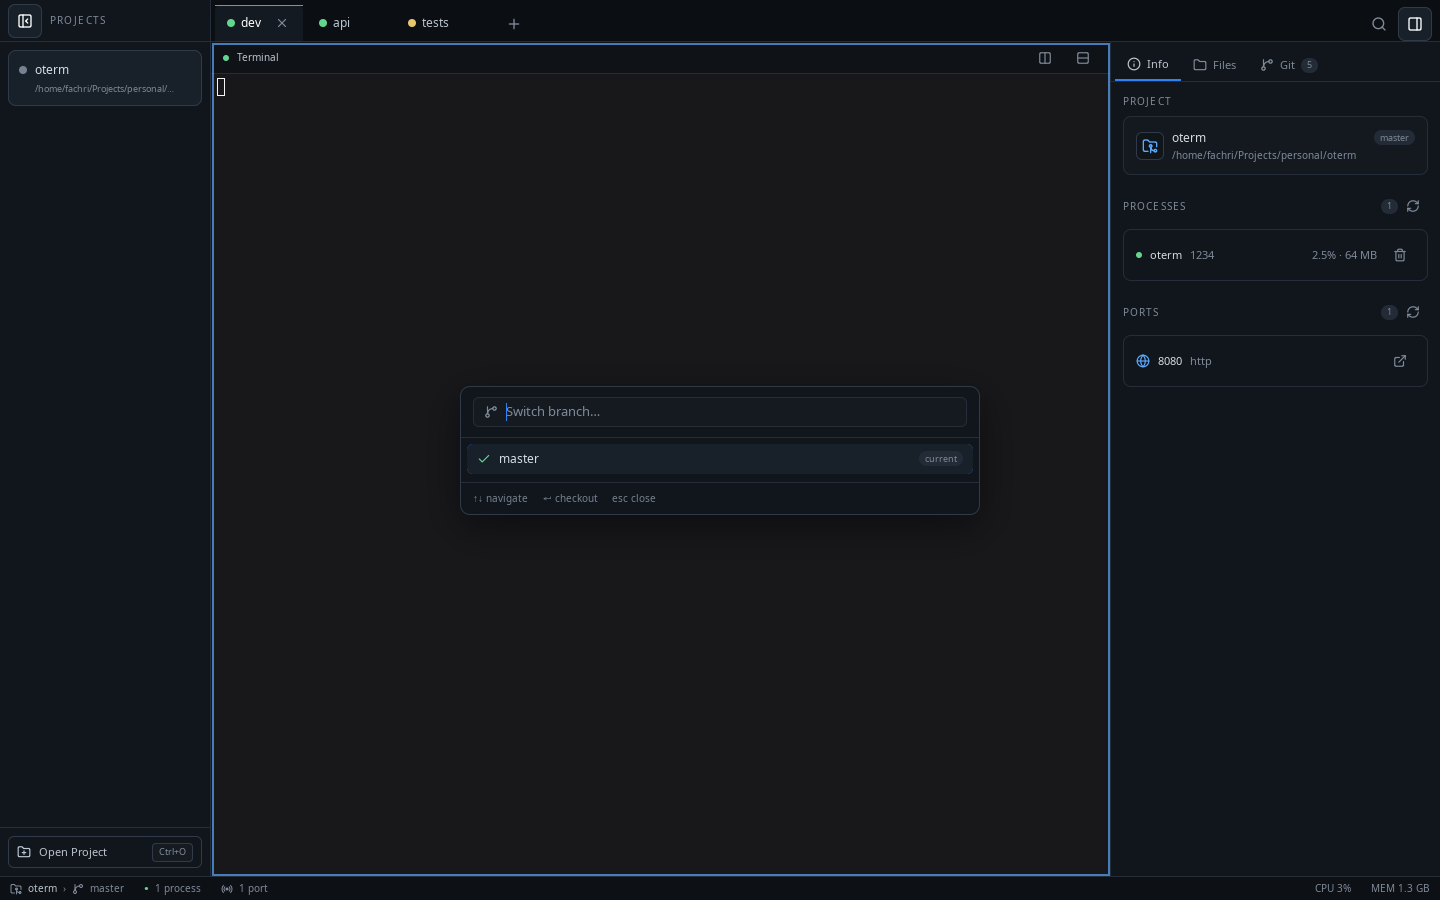
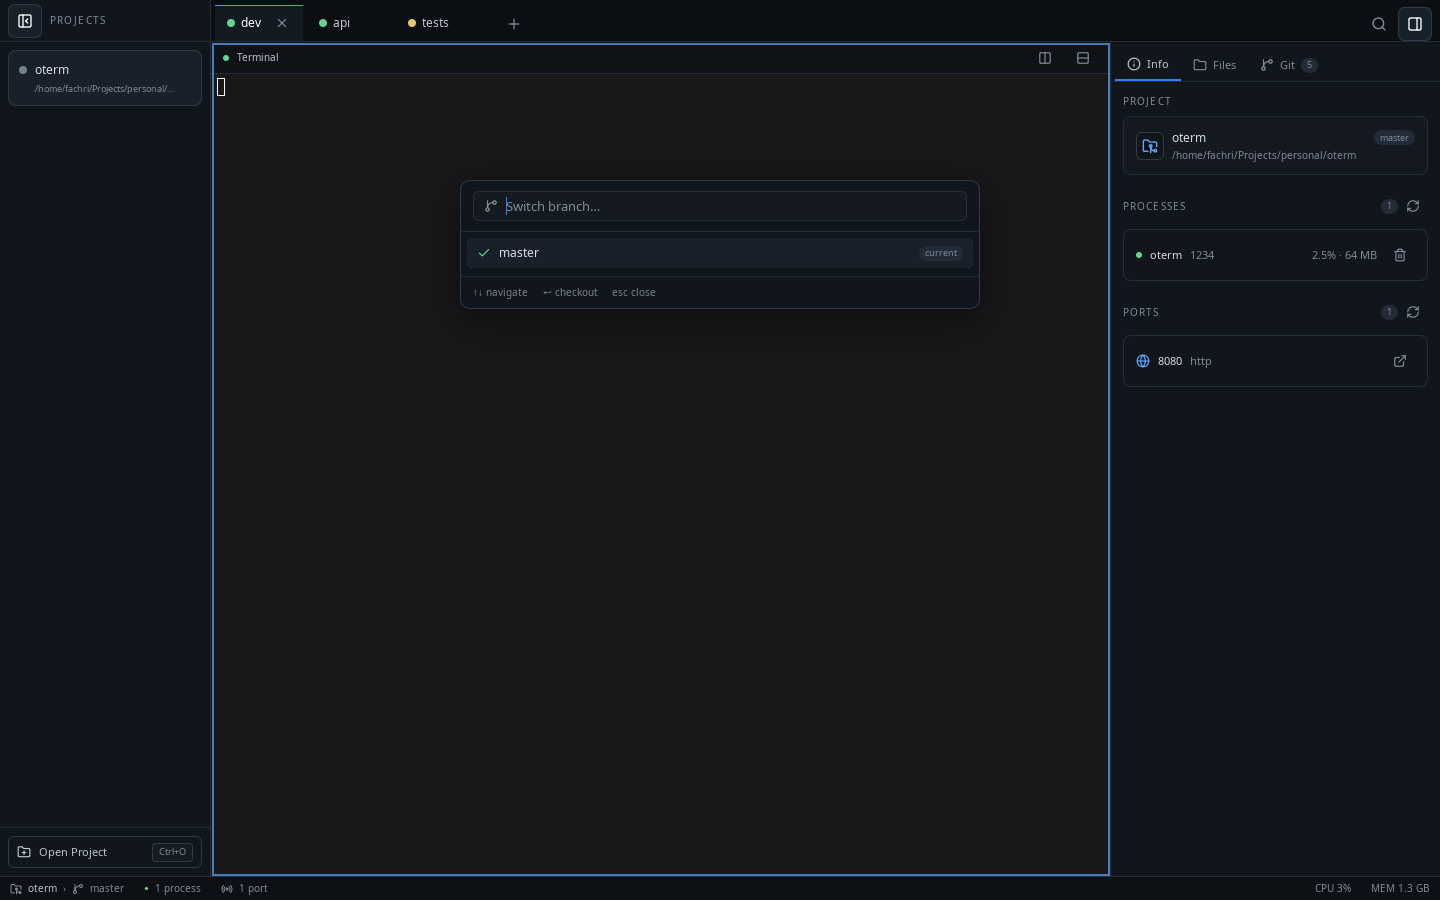
Hang overlay dialogs from 20% of the window, as VS Code does
DialogBase centers its panel along the backdrop's main axis, so every
overlay sat at 50% of the window height: the branch switcher with two
branches floated near the middle of an empty screen, and the short
search panel looked pushed down. Measured in the goldens, palette and
quick open had equal 170px gaps, branch 386/385, search 320/319.

The backdrop now starts its column at the top and the panel offsets
itself by 20% of the window height, a relative inset, so the panel keeps
the horizontal centering and its own content height while its top edge
stays fixed. The height cap subtracts that offset and a 24px bottom
margin, so a tall palette still fits in a small window (checked at
900x560: panel ends at 535 of 560).

Click-outside and Escape still dismiss, and the dialog's border and
shadow are unchanged. Goldens regenerated for the four overlay shots;
TestDialogHangsFromTop asserts the 20% anchor and the bottom margin.

diff --git a/polish_test.go b/polish_test.go
@@ -1,6 +1,7 @@
 package main
 
 import (
+	"image"
 	"os"
 	"path/filepath"
 	"strings"
@@ -274,5 +275,50 @@ func TestCommitFileListCached(t *testing.T) {
 	}
 	if !tr.HasText("sentinel.go") {
 		t.Error("cached file list was not rendered")
+	}
+}
+
+// dialogPanelSpan returns the first and last row of the open dialog panel,
+// found by its border in the window's middle column.
+func dialogPanelSpan(t *testing.T, img *image.RGBA) (top, bottom int) {
+	t.Helper()
+	x := img.Bounds().Dx() / 2
+	top, bottom = -1, -1
+	for y := 0; y < img.Bounds().Dy(); y++ {
+		o := img.PixOffset(x, y)
+		if img.Pix[o] == 0x30 && img.Pix[o+1] == 0x3a && img.Pix[o+2] == 0x48 {
+			if top < 0 {
+				top = y
+			}
+			bottom = y
+		}
+	}
+	return top, bottom
+}
+
+// Overlays hang from 20% of the window height, as VS Code's do, rather than
+// being centered: a short dialog used to sit in the middle of the window.
+func TestDialogHangsFromTop(t *testing.T) {
+	a := newTestApp(t)
+	defer stopTermPanes(a)
+	a.fileIndex = []string{"app.go", "state.go", "theme.go"}
+
+	const w, h = 1440, 900
+	wantTop := int(h * dialogTopFraction)
+	for _, kind := range []overlayKind{overlayQuickOpen, overlayCommandPalette, overlayGlobalSearch, overlayBranch} {
+		a.overlay = kind
+		tr := ui.NewTester(a.view, w, h)
+		tr.Frame()
+		top, bottom := dialogPanelSpan(t, tr.Image())
+		if top < 0 {
+			t.Fatalf("overlay %v: no panel found", kind)
+		}
+		if top != wantTop {
+			t.Errorf("overlay %v: panel starts at %d, want %d (%.0f%% of the window)",
+				kind, top, wantTop, dialogTopFraction*100)
+		}
+		if bottom >= h-dialogMinBottom {
+			t.Errorf("overlay %v: panel reaches %d, past the %d bottom margin", kind, bottom, dialogMinBottom)
+		}
 	}
 }

diff --git a/overlays.go b/overlays.go
@@ -56,13 +56,35 @@ func (a *appState) renderOverlays(c *ui.Context) {
 	}
 }
 
+// dialogTopFraction is where a dialog's panel starts, as a share of the
+// window height. DialogBase centers its panel; editors such as VS Code
+// hang the quick open, command palette and search panels near the top
+// instead, so that a short panel stays under the eye rather than floating
+// in the middle of the window.
+const dialogTopFraction = 0.2
+
+// dialogMinBottom keeps a panel off the window's bottom edge.
+const dialogMinBottom = 24
+
 // dialog shows body in a panel the app styles itself, over a dim backdrop.
 // ui.Modal would wrap the content in the theme's own padding and
 // background, which read as a dark frame around it.
 func (a *appState) dialog(c *ui.Context, w, h float32, body func()) {
 	open := true
-	ui.DialogBase(c, &open, func(_, panel ui.Element) {
-		panel.Background(colPanel).Radius(10).Border(1, colBorder2).
+	_, winH := c.Size()
+	top := winH * dialogTopFraction
+	// The panel sizes to its content, but its cap must leave room for the
+	// top offset, or a tall panel would hang off the bottom.
+	if avail := winH - top - dialogMinBottom; avail > 0 && h > avail {
+		h = avail
+	}
+	ui.DialogBase(c, &open, func(backdrop, panel ui.Element) {
+		// DialogBase centers the panel along the backdrop's main axis.
+		// Starting the column at its top and offsetting the panel keeps
+		// the horizontal centering, and puts the panel at a fixed share of
+		// the window height whatever its own height is.
+		backdrop.Justify(ui.Start)
+		panel.Top(top).Background(colPanel).Radius(10).Border(1, colBorder2).
 			Width(w).MaxHeight(h).Clip().
 			Shadow(0, 12, 40, 0, ui.RGBA(0, 0, 0, 0.45))
 		body()
